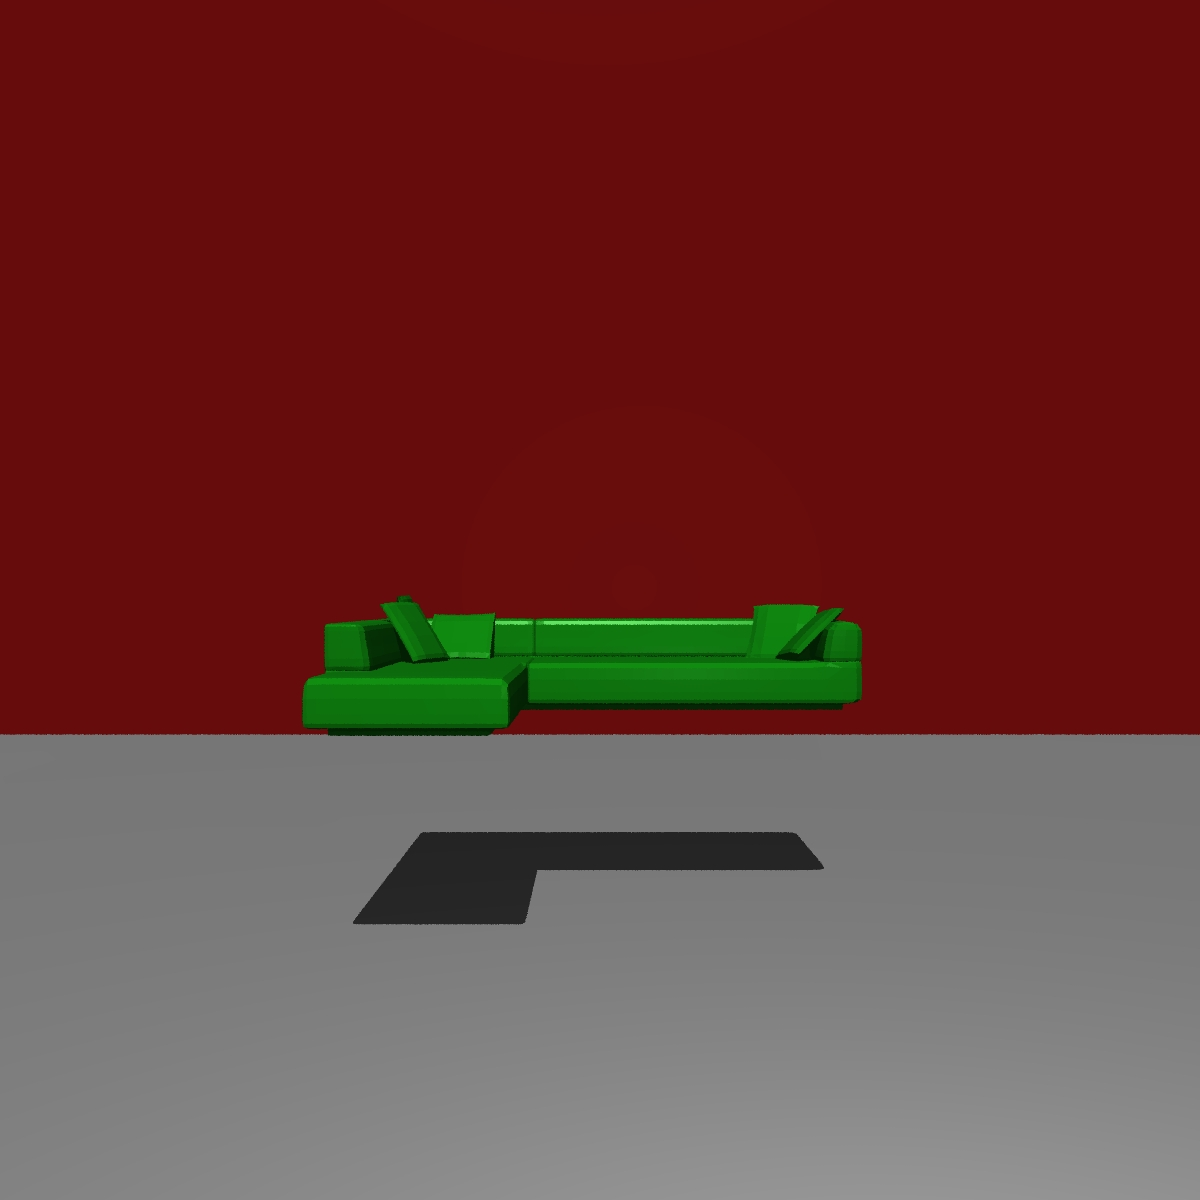
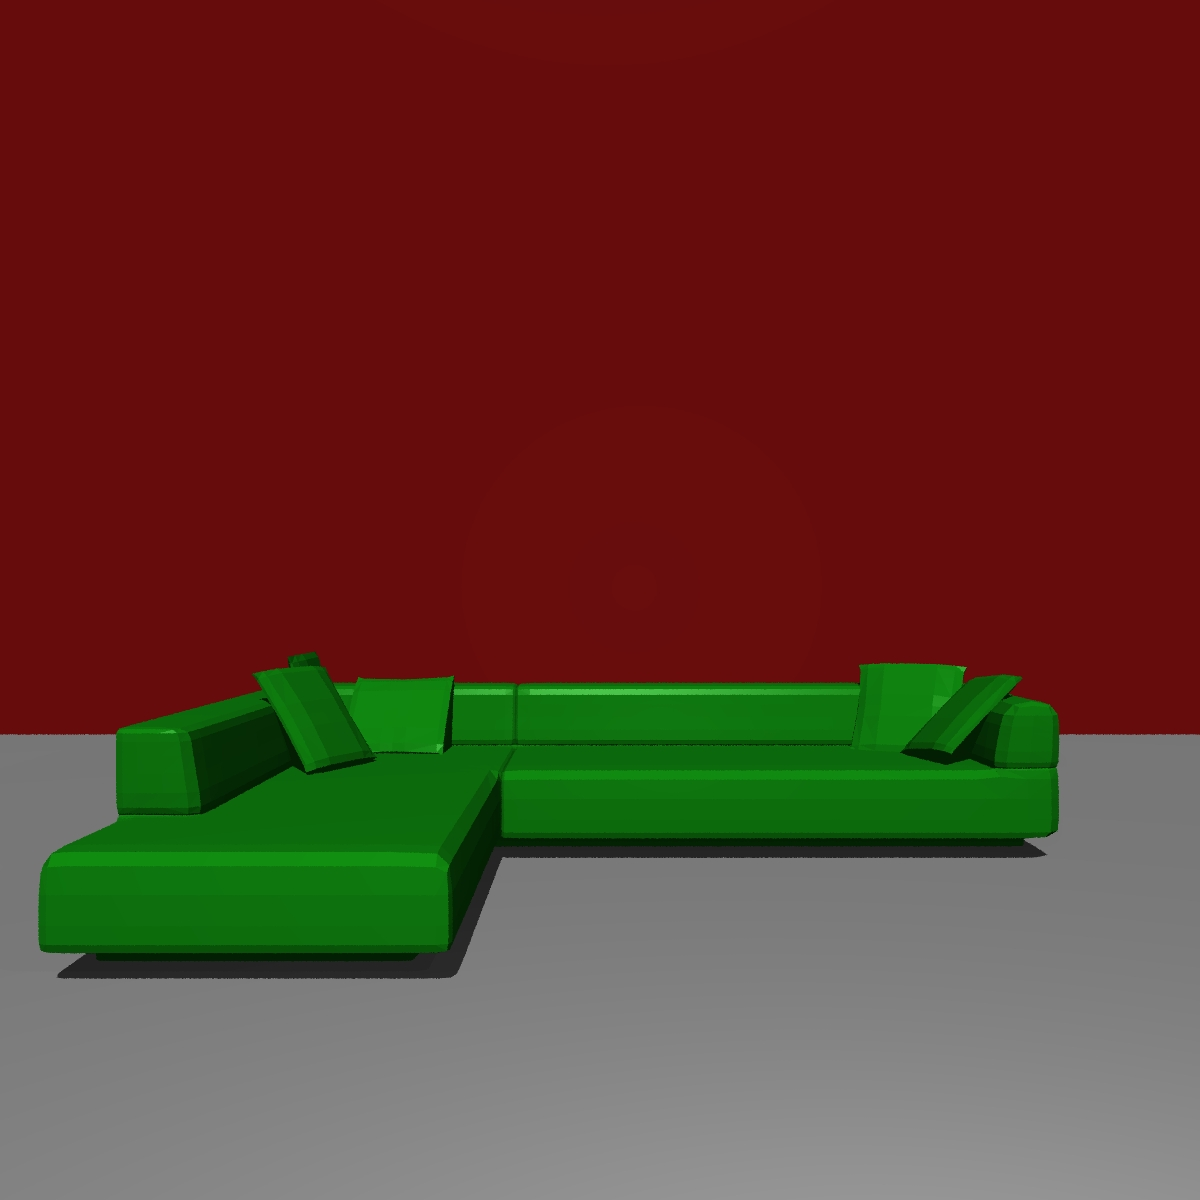
cute sofa

Changed region(s): [[0.0308, 0.4933, 0.8942, 0.8325]]

diff --git a/Src/main.cpp b/Src/main.cpp
@@ -91,11 +91,11 @@ int main(int argc, char* argv [])
         };
 
         std::vector<Triangle*> triangleList;
-        std::vector<Vec3f> vertexList = loadObjtriangles("sofa", -300, 300);
+        std::vector<Vec3f> vertexList = loadObjtriangles("sofa", -600, 600);
         for (size_t i = 0; i < vertexList.size(); i+=3) {
-            vertexList[i] = vertexList[i] + Vec3f{-300, -200, 2000};
-            vertexList[i + 1] = vertexList[i + 1] + Vec3f{-300, -200, 2000};
-            vertexList[i + 2] = vertexList[i + 2] + Vec3f{-300, -200, 2000};
+            vertexList[i] = vertexList[i] + Vec3f{-550, -550, 2000};
+            vertexList[i + 1] = vertexList[i + 1] + Vec3f{-550, -550, 2000};
+            vertexList[i + 2] = vertexList[i + 2] + Vec3f{-550, -550, 2000};
 
             triangleList.emplace_back(new Triangle{
                 vertexList[i + 0],
